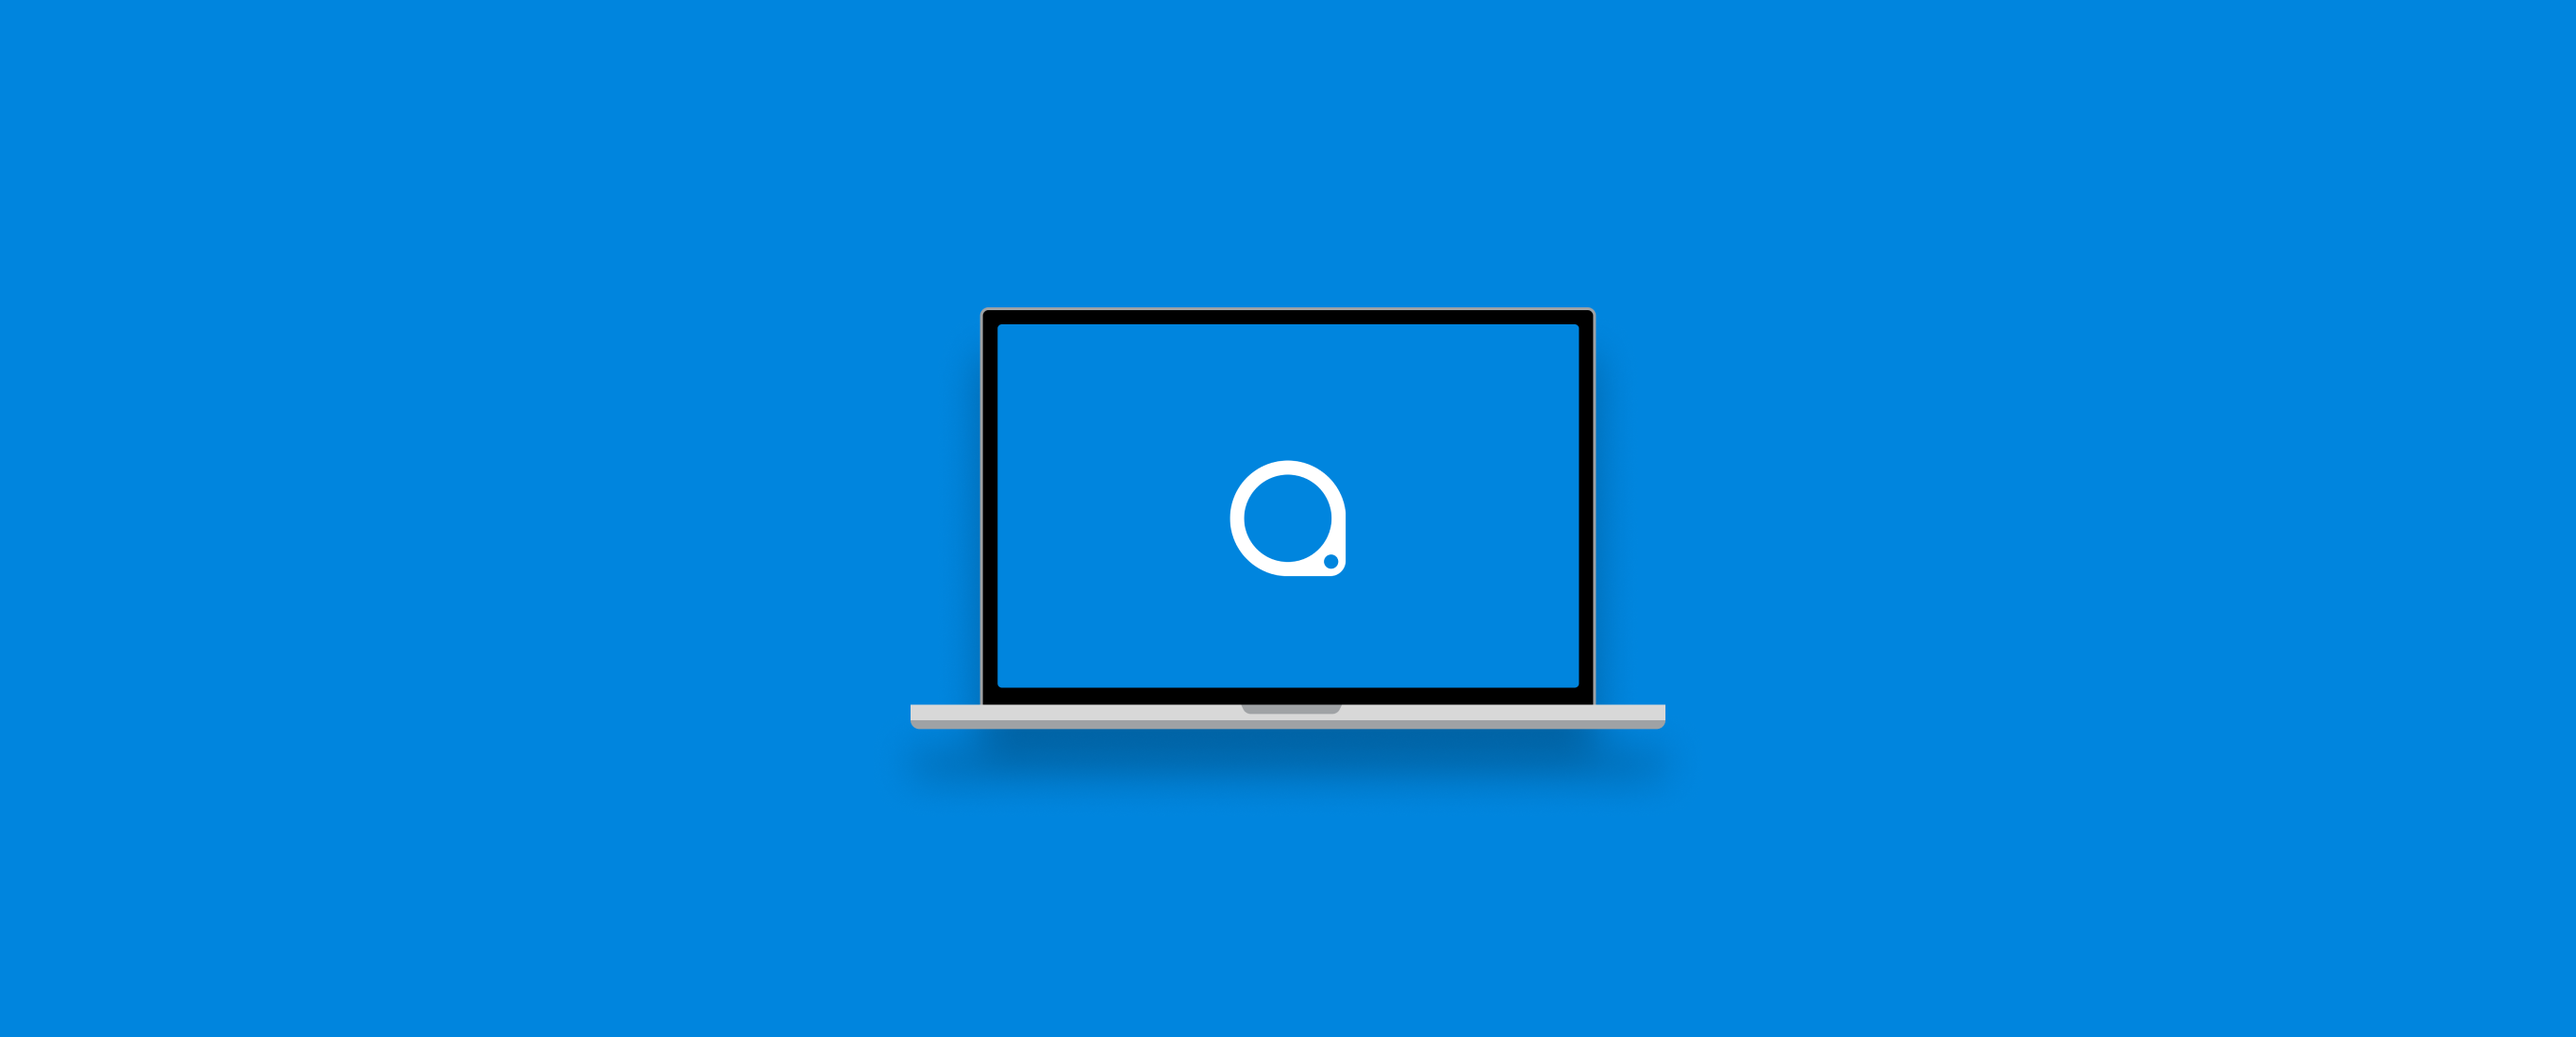
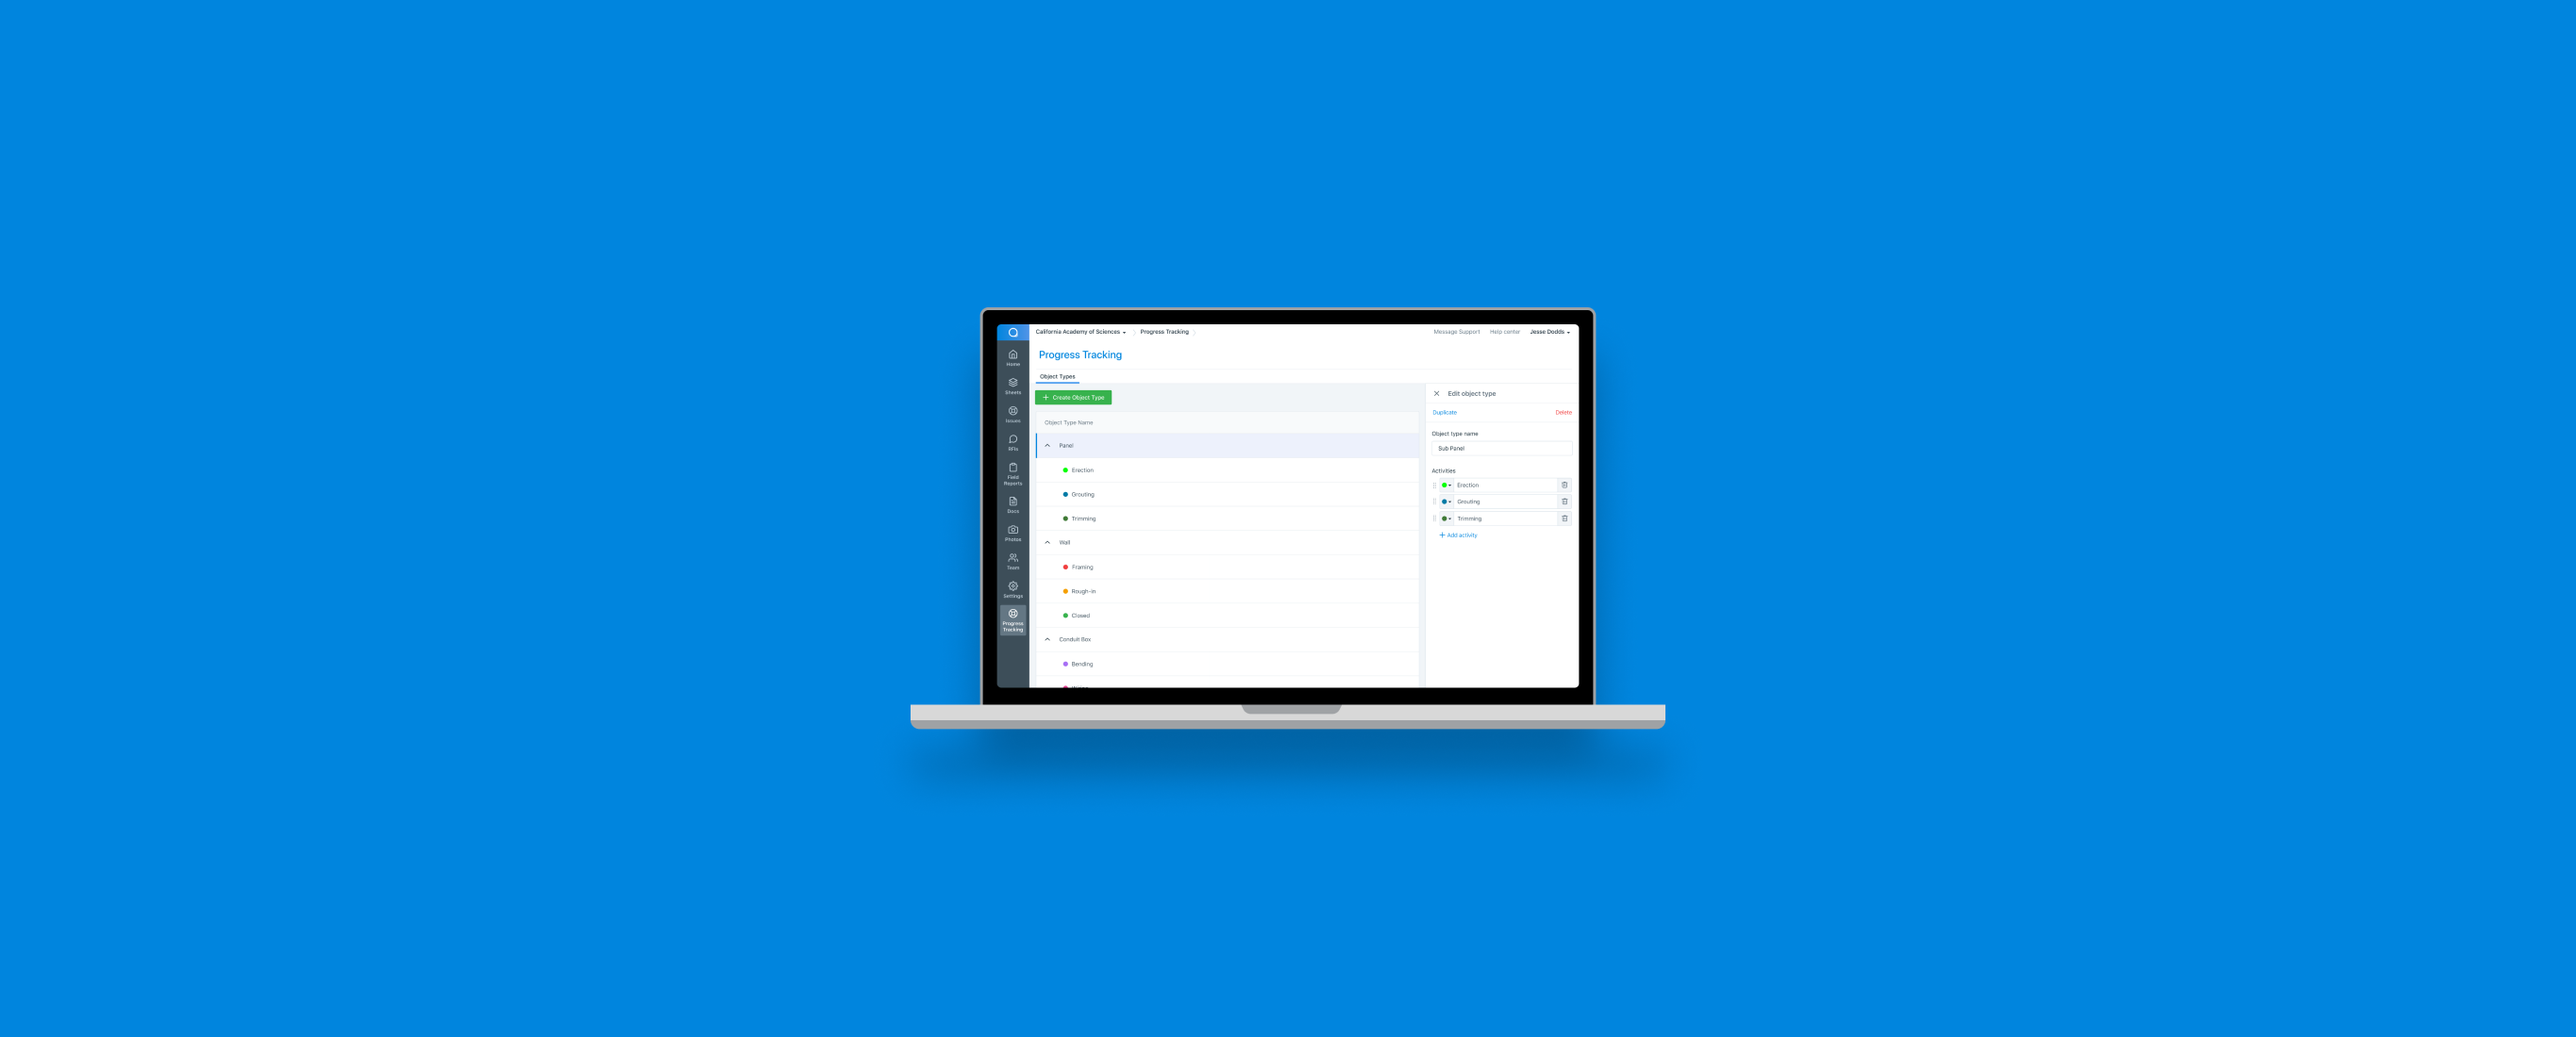
yay new case study!

Changed region(s): [[0.3736, 0.3091, 0.6227, 0.68]]

diff --git a/plangrid.html b/plangrid.html
@@ -43,31 +43,153 @@
       <img class="full-width" data-action="zoom" src="images/plangridlarge.png">
     <div class="content-wrapper">
       <div class="animated fadeInUp delay-0.2s">
-        <div class="about nda">
-          <b>This project is currently under NDA. If you'd like to learn more about the design work I did at PlanGrid, feel free to shoot me an email at tyhe@uwaterloo.ca.</b>
-        </div><br><br>
-        <div class="work-box">
-        <div class="text-left"><h2>Role and Overview</h2></div>
+      <div class="work-box">
+        <div class="text-left"><h2>Problem</h2></div>
         <div class="about text-right">
-          I joined the team near the tail-end end of the initial research and discovery phase. Working with my product manager, design lead and researcher, I was able to synthesize some of the findings into insights. I was then able to facilitate a two-part sketching session with the whole team to brainstorm ideas. 
-          The next phase of the project involved working out more refined requirements with the product manager on our team, and then create low fidelity wireframes and sketches. Upon going through some iteration, we landed on two clickable prototypes with two different approaches. 
-          Along with the user researcher on our team, we conducted usability tests with sub-contractor project managers. After the testing, we were able to consolidate an approach, which led to high-fidelity mock-ups. I was able to work with the front-end developers on our team to implement the designs.
-          Overall, this process took about 3 months, from October to December.
+          Construction companies don’t always meet their estimated budgets and timelines. Usually
+          they realize this far too late to make any necessary adjustments. This leads to lost money
+          and wasted work. Current methods of tracking progress are inefficient, disjointed, and do not
+          keep crews accountable.
+          <br><br><img class="headerimage" data-action="zoom" src="images/problemstatement.png">
         </div>
       </div>
-      <!-- <div class="work-box">
-        <div class="text-left"><h2>Role and Overview</h2></div>
+      <div class="work-box">
+        <div class="text-left"><h2>Research</h2></div>
         <div class="about text-right">
-          I joined the team near the tail-end end of the initial research and discovery phase. Working with my product manager, design lead and researcher, I was able to synthesize some of the findings into insights. I was then able to facilitate a two-part sketching session with the whole team to brainstorm ideas. 
-          The next phase of the project involved working out more refined requirements with the product manager on our team, and then create low fidelity wireframes and sketches. Upon going through some iteration, we landed on two clickable prototypes with two different approaches. 
-          Along with the user researcher on our team, we conducted usability tests with sub-contractor project managers. After the testing, we were able to consolidate an approach, which led to high-fidelity mock-ups. I was able to work with the front-end developers on our team to implement the designs.
-          Overall, this process took about 3 months, from October to December.
+          I joined the team near the tail-end end of the initial research and discovery phase. Through said research, the team found that many of these current methods rely on gut 
+          estimates while on the construction site, usually performed by the foreman, then reported to the project manager. This method relies heavily on personal experience, and is generally low accuracy. 
+          As mentioned above, low accuracy methods result in skewed views of total progress, thus leading to lost money and wasted work. On the other end of the spectrum, we found methods of progress tracking that were very detailed and high accuracy. However, all of these methods required significant amounts of set-up and configuration by project managers, and were not mobile-friendly for field use. 
+          The latter point leads to low adoption by most companies (in terms of these higher accuracy methods). In the middle of the spectrum, there were methods in which companies would leverage pre-existing markup tools in PlanGrid to annotate sheets with visual representations of objects to track progress on. Updating the progress on these “objects” on the field would be as easy as changing their colors. 
+          Unfortunately, this method doesn’t translate well to high accuracy data (which would then be used to calculate productivity rates and make appropriate adjustments).
+          <br><img class="headerimage" data-action="zoom" src="images/researchimages.png">
+          <div class="caption-container">Existing methods of tracking progress</div><br>
         </div>
-      </div> -->
+      </div>
+      <div class="work-box">
+        <div class="text-left"><h2>Requirements</h2></div>
+        <div class="about text-right">
+          <div class="about">
+            Having discovered all of these methods, we found that our solution had to:
+            <ol>
+              <li>Provide a simple-to-use, mobile friendly, visual representation of objects to track progress on.</li>
+              <li>Be quick and efficient for project managers to set up objects, and assign their associated activities (ie. create a “Wall” object type with associated activities “Framing”, “Rough-In”, “Closing”).</li>
+              <li>Generate detailed and high accuracy data, which could be leveraged to calculate productivity rates and provide a single source of truth for each construction project.</li>
+            </ol>
+          </div>
+          <br><img class="headerimage" data-action="zoom" src="images/Screenshot 2021-05-14 103716.jpg">
+          <div class="caption-container">Established product vision; this case study focuses on the configuration</div><br>
+        </div>
+      </div>
+      <div class="work-box">
+        <div class="text-left"><h2>Brainstorming</h2></div>
+        <div class="about text-right">
+          After gathering the above requirements, our team began brainstorming different methods to meet them. I facilitated a two-part idea generation workshop (specifically for the “configuration” portion of the product) in which the cross-functional team (including product management, product design, user research, and engineering) all gathered together to sketch many different ideas
+          <br><br><img class="headerimage" data-action="zoom" src="images/brainstorming.png">
+          <div class="caption-container">Facilitating a sketching session for brainstorming</div><br>
+          From there, alongside another designer and my product manager, we filtered it down and expanded on a couple of key ideas, selecting the ones that were the most aligned with our given problem space and limitations. We were able to solidify requirements, make key design decisions, and iterate quickly. Sketches of multiple design options on pen and paper became low fidelity wireframes.
+          <br><br><img class="headerimage" data-action="zoom" src="images/sketch.png">
+          <div class="caption-container">The result of the session: a lot of sketches</div><br>
+          At this phase, I created a user flow diagram to get a better sense of how the requirements for configuration would be perceived by the user. Through this, I was able to get a lot of early feedback, better informing later design iterations.
+        </div>
+      </div>
       <br><div>
+        <img class="headerimage" data-action="zoom" src="images/User flow.png">
+        <div class="about caption-container">User flow for configuration based on ideas</div>
+      </div><br><br>
+      <div class="work-box">
+        <div class="text-left"><h2>Design Considerations</h2></div>
+        <div class="about text-right">
+          After a few more rounds of iteration, I arrived at three main options for the first portion of configuration, setting up a construction project’s objects and activities. To be clear on explaining the three options, we must first clearly define objects and activities. At a high level, objects (such as walls) are items on the construction site to be worked on, while activities specify the particular tasks that need to be performed in order to track progress. Similar to the methods 
+          PlanGrid customers were using existing markups capabilities for, activities are assigned specific colours in order to clearly represent progress on a sheet visually.
+          <br><br><img class="headerimage" data-action="zoom" src="images/Screenshot 2021-05-14 105505.jpg">
+          <div class="caption-container">Diagram illustrating the object-activity relationship</div><br>
+          Understanding the relationship between objects and activities is critical to selecting the ideal option for setting up a project’s objects and activities. Below were the three options created and details regarding their strengths and limitations:
+          <br><br><div>
+            <h2 class="prosandcons">Option 1</h2>
+            <img class="headerimage" data-action="zoom" src="images/option1.png">
+            <div class="about prosandcons"><br><b>Pros</b><br><ul>
+              <li>Familiar/modern layout (Kanban style)</li>
+              <li>Clear display of all objects and activities</li>
+              <li>Quick and easy to add/change activities and objects in-line</li>
+            </ul>
+            <b>Cons</b><br><ul>
+              <li>Kanban mental model does not apply to objects and activities</li>
+              <li>Takes up a lot of screen space, low information density</li>
+            </ul></div>
+          </div><br>
+            <div>
+              <h2 class="prosandcons">Option 2</h2>
+              <img class="headerimage" data-action="zoom" src="images/option2.png">
+              <div class="about prosandcons"><br><b>Pros</b><br><ul>
+                <li>Very clear visual separation of separate objects</li>
+                <li>Intuitive navigation pattern, similar to iPadOS settings</li>
+              </ul>
+              <b>Cons</b><br><ul>
+                <li>New component within the app (not in the design system)</li>
+                <li>Takes up a lot of screen space, low information density</li>
+              </ul></div>
+            </div><br><div>
+            <h2 class="prosandcons">Option 3 (chosen)</h2>
+            <img class="headerimage" data-action="zoom" src="images/option3.png">
+            <div class="about prosandcons"><br>We chose Option 3 as it aligned best with our development timelines for a minimum viable product. It was also future-proof and familiar for existing PlanGrid users.<br><br><b>Pros</b><br><ul>
+              <li>Existing component within app (faster to build)</li>
+              <li>Aligns with existing mental models from PlanGrid</li>
+              <li>Future-proof by providing empty space for information to be added in later</li>
+            </ul>
+            <b>Cons</b><br><ul>
+              <li>Currently visually sparse (see last pro above)</li>
+              <li>Less clear distinction between activities and objects</li>
+            </ul></div>
+        </div>
+      </div>
+    </div>
+    <br><div class="work-box">
+      <div class="text-left"><h2>Usability Testing</h2></div>
+      <div class="about text-right">
+        After establishing the layout, the process of creating and editing objects and activities needed to be designed. 
+        To do this, I drew inspiration from two separate pieces of software, resulting in two more options with distinct approaches to user experience. One approach (shown on left) was based upon existing PlanGrid creation patterns, including many modals and side drawers for editing. 
+        The other approach followed design patterns (such as in-line editing and autosave) found in modern productivity apps like Todoist and Asana (shown on right).
+      </div>
+    </div>
+  </div><br>
+    <div class="two-images">
+      <img class="headerimage" data-action="zoom" src="images/bruh.gif">
+      <img class="headerimage" data-action="zoom" src="images/bruh2.gif">
+    </div>
+    <br><div class="work-box">
+      <div class="text-left"><h2></h2></div>
+      <div class="about text-right">
+        I worked with the user researcher on my team to conduct 5 usability tests on these two different approaches. Through conducting the five user tests, we found that our customers enjoyed the new efficiency and ease of use provided by the modern approach, while others felt “safer” and more familiar with the current PlanGrid patterns. 
+        In addition, said user testing qualitatively validated the practicality of our solution, as some customers deemed it a “game changer” for their construction teams. As such, our final solution incorporated elements of both approaches, combining the use of in-line editing with the familiar side-drawer. Using these mock-ups, I worked with our front-end engineers to build out and implement the designs.
+      </div>
+    </div>
+    <div class="work-box">
+      <div class="text-left"><h2>Final Designs</h2></div>
+      <div class="about text-right">
+      </div>
+    </div>
+    <div>
+      <img class="headerimage" data-action="zoom" src="images/epic.gif">
+      <div class="caption-container about">Implemented final designs</div>
+    </div><br><br>
+    <div class="work-box">
+      <div class="text-left"><h2>Next Steps and Reflections</h2></div>
+      <div class="about text-right">There's a lot in store for Progress Tracking, considering that this project was only a proof-of-concept. Once more testing is done, more questions answered, and more hypotheses validated,
+        the initiative will continue to be iterated upon and fleshed out. An exciting development for the near future is the release of <span class="hovertext1"><a href="https://constructionblog.autodesk.com/autodesk-build/">Autodesk Build</a></span>,
+        the unified construction platform for Autodesk, combining the best parts of PlanGrid and BIM360 (Autodesk's existing construction software platform). As this initiative is released, there will need to be consideration on how this initiative will
+        utilize the design system, both in terms of visuals and interactions.<br><br>I had an assumption that the in-line editing approach would be the ideal solution for its
+        perceived efficiency. However, through user testing we found that familiarity was an equally
+        important factor to users. This taught me the importance of testing and research-based
+        decision making. Due to the nature of the project being an MVP, there was less of an
+        emphasis on ironing out the visuals, though this is an area that I am looking to grow in and
+        receive feedback for.<br>
+      </div>
+    </div>
+      <br><br><br>
+      <!-- <div>
         <img class="headerimage" data-action="zoom" src="images/photo-1541888946425-d81bb19240f5.jpeg">
         <div class="caption-container about">Image from Unsplash</div>
-      </div>
+      </div> -->
         <a class="abooot" href="literatura.html">literatura app →</a>
           <!-- <footer class="footer">
               <ul>

diff --git a/css/styles.css b/css/styles.css
@@ -63,7 +63,7 @@ ul {
 
 .content-wrapper {
     margin: 0 20% 0 20%;
-    max-width: 1300px;
+    max-width: 1100px;
     margin-bottom: 120px;
 }
 
@@ -72,16 +72,26 @@ ul {
   justify-content: flex-start;
 }
 
+.two-images {
+  display:flex;
+  flex-wrap:nowrap;
+  justify-content: space-evenly;
+}
+
+.two-images img {
+  max-width: 460px;
+}
+
 .text-left {
     padding: 20px 20px 20px 0px;
     box-sizing: border-box;
-    flex-basis: 35%;
+    flex-basis: 40%;
 }
 
 .text-right {
   padding: 20px 0px 20px 20px;
   box-sizing: border-box;
-  flex-basis: 65%;
+  flex-basis: 60%;
 }
 
 .content-wrapperabout {
@@ -503,6 +513,11 @@ span:hover + .hoverimage1{
   margin: auto;
 }
 
+/* .prosandcons {
+  margin-top: 2%;
+  margin-left: 5%;
+} */
+
 .caption-container{
   font-size: 11px;
   font-family: 'SpaceGrotesk';
@@ -533,7 +548,7 @@ iframe{
 }
 
 .top-case{
-  margin-top: 10em;
+  margin-top: 15em;
   margin-bottom: 2em;
   margin-left: 20%;
   max-width: 650px;

diff --git a/literatura.html b/literatura.html
@@ -151,7 +151,7 @@
         <iframe src="https://marvelapp.com/3c4jhdh?emb=1&iosapp=false&frameless=false" width="453" height="864" allowTransparency="true" frameborder="0"></iframe>
         <div class="caption-container about">Prototype in Marvel</div>
       </div>
-      <br><div class="work-box">
+      <br><br><div class="work-box">
         <div class="text-left"><h2>Learnings and Next Steps</h2></div>
         <div class="text-right">
         <div class="about">
@@ -166,11 +166,11 @@
           </ul>
         </div>
       </div>
-      </div>
-      <div>
+      </div><br><br><br>
+      <!-- <div>
         <img class="headerimage" data-action="zoom" src="images/photo-1507842217343-583bb7270b66.jpg">
         <div class="caption-container about">Image from Unsplash</div>
-      </div>
+      </div> -->
         <a class="abooot" href="waterloop.html">Waterloo Hyperloop →</a>
           <!-- <footer class="footer">
               <ul>

diff --git a/waterloop.html b/waterloop.html
@@ -117,10 +117,11 @@
           be created/re-created/tweaked. Stay tuned for the the site's launch <span class="hovertext1"><a href="https://teamwaterloop.ca/">here</a></span>!
         </div>
         </div>
-        <br><div>
+        <br><br><br>
+        <!-- <div>
           <img class="headerimage" data-action="zoom" src="images/waterlooprender.jpg">
           <div class="caption-container">Renders courtesy of Waterloop</div>
-        </div>
+        </div> -->
         <a class="abooot" href="plangrid.html">PlanGrid (Autodesk)→</a>
           <!-- <footer class="footer">
               <ul>
